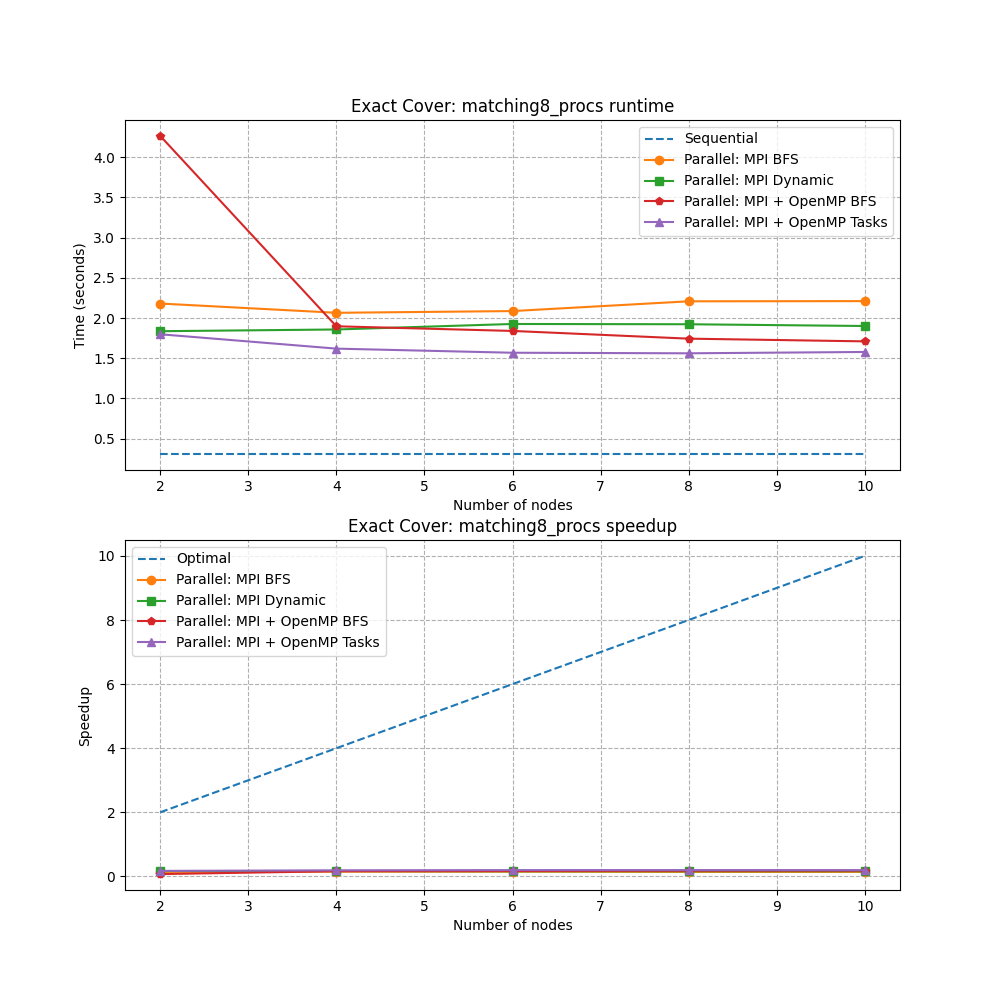
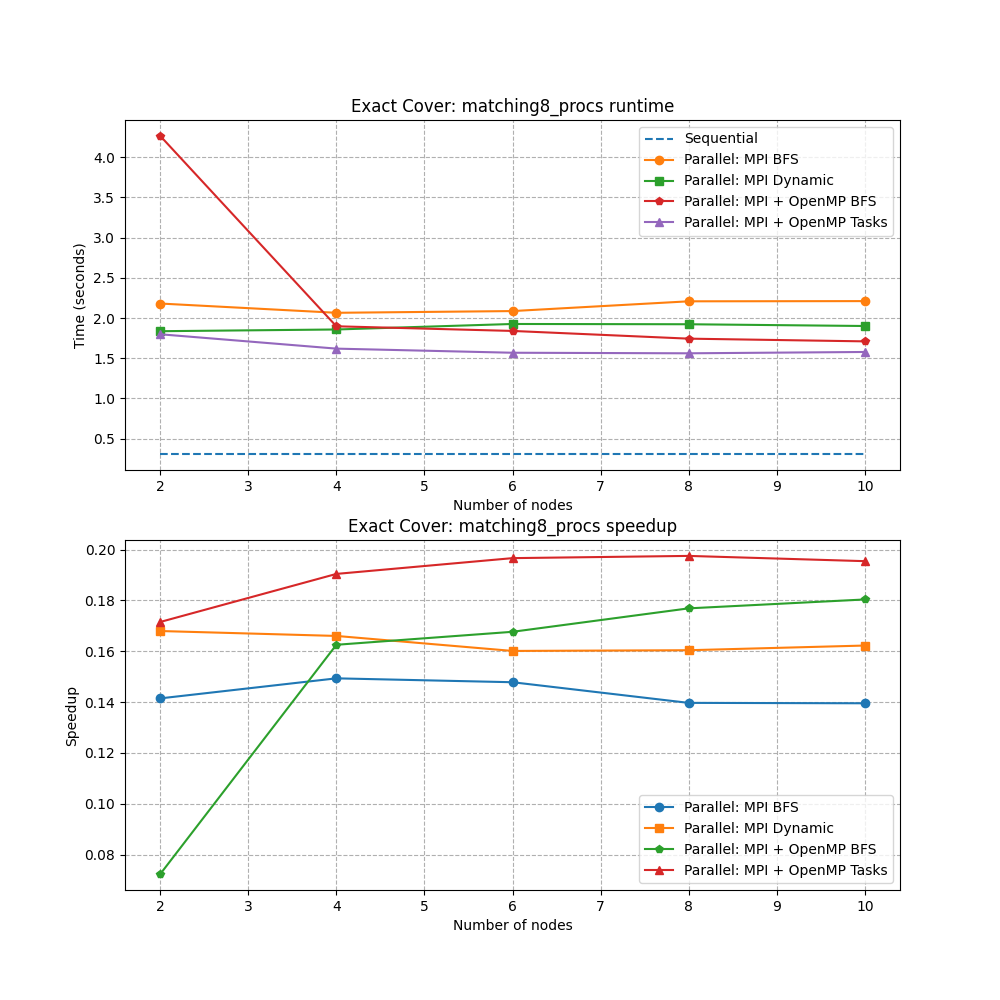
update graphs procs

diff --git a/benchmark/csvgraph.py b/benchmark/csvgraph.py
@@ -58,7 +58,8 @@ if __name__ == '__main__':
 
     # Speedup
     t1 = y_list[0][0]
-    ax2.plot(x, x, fmts[0], label='Optimal')
+    if 'nodes' not in xlabel:
+        ax2.plot(x, x, fmts[0], label='Optimal')
     for y, fmt, label in zip(y_list[1:], fmts[1:], labels[1:]):
         ax2.plot(x, speedup(t1, y), fmt, label=label)
     ax2.set_xlabel(xlabel)
